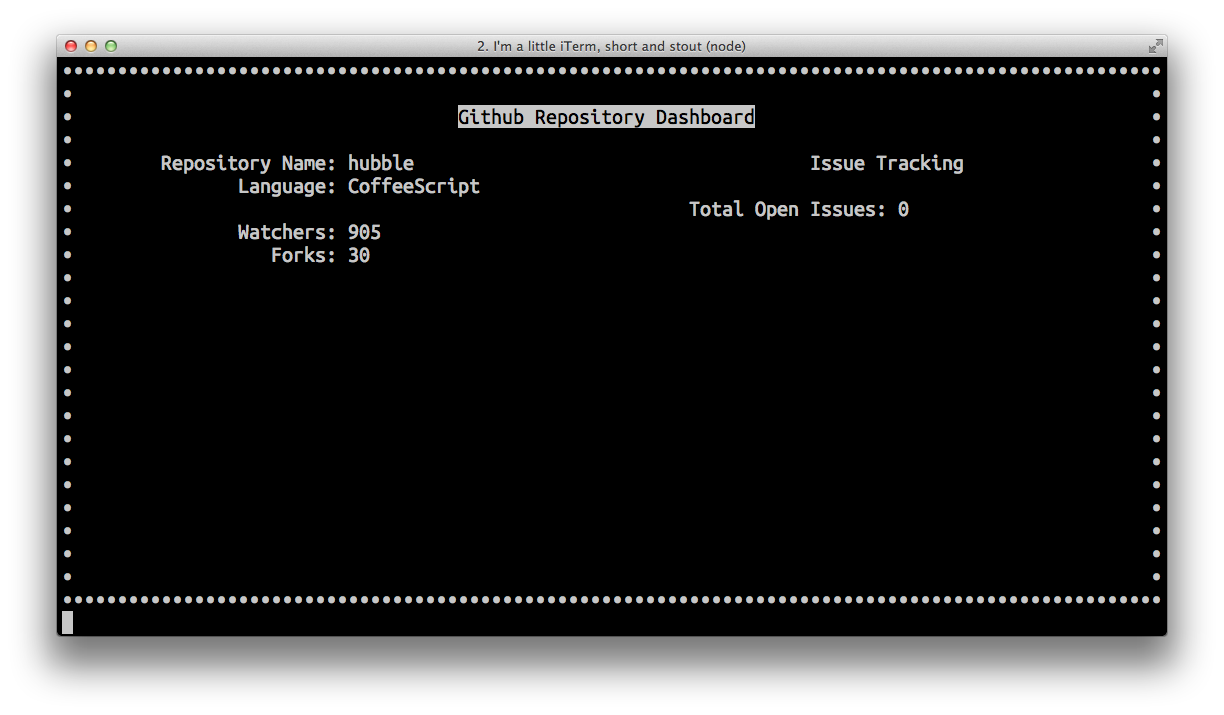
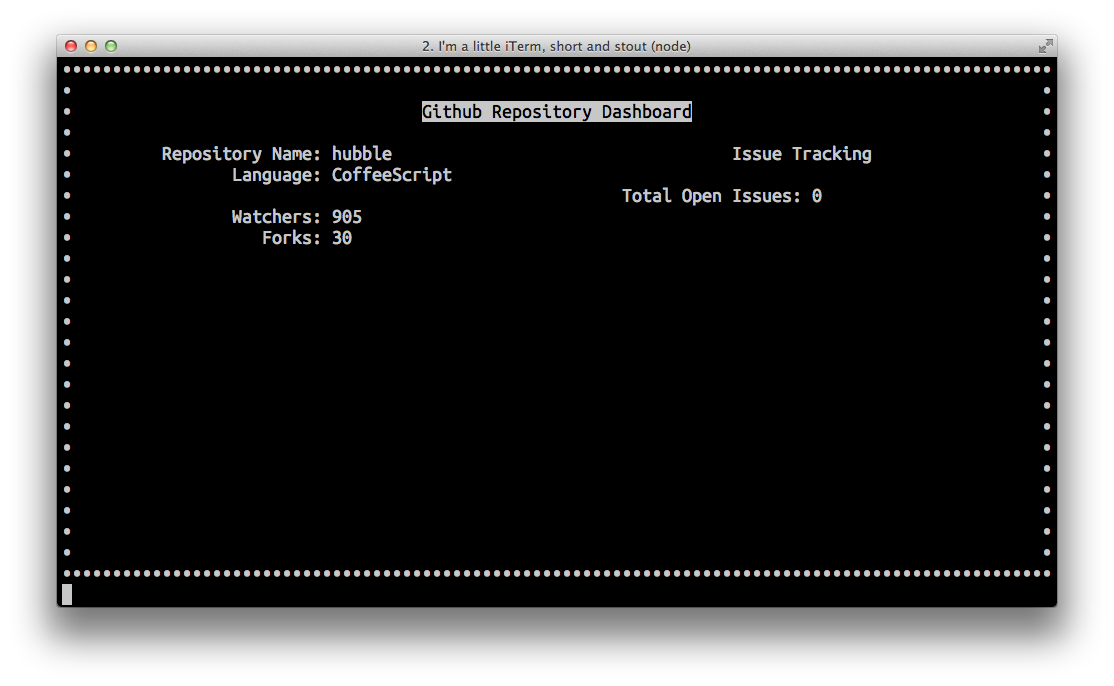
fixed some readme typos and new screenshots

diff --git a/README.md b/README.md
@@ -15,7 +15,7 @@ Quick Start
 
 	module.exports =
 		title:  'Hubble Space Dashboard'
-		border: '*'
+		border: '•'
 
 		server:
 			port: 9999
@@ -169,7 +169,7 @@ You don't have to supply the '[github:username]:[github:password]' in the api re
 
 	curl http://localhost:9999 \
 	-d column=0 \
-	-d label="Public Repos" \
+	-d label="Public Gists" \
 	-d poll_url="https://[github:username]:[github:password]@api.github.com/users/jaymedavis" \
 	-d poll_seconds=10 \
 	-d poll_failed="Bummer :(" \
